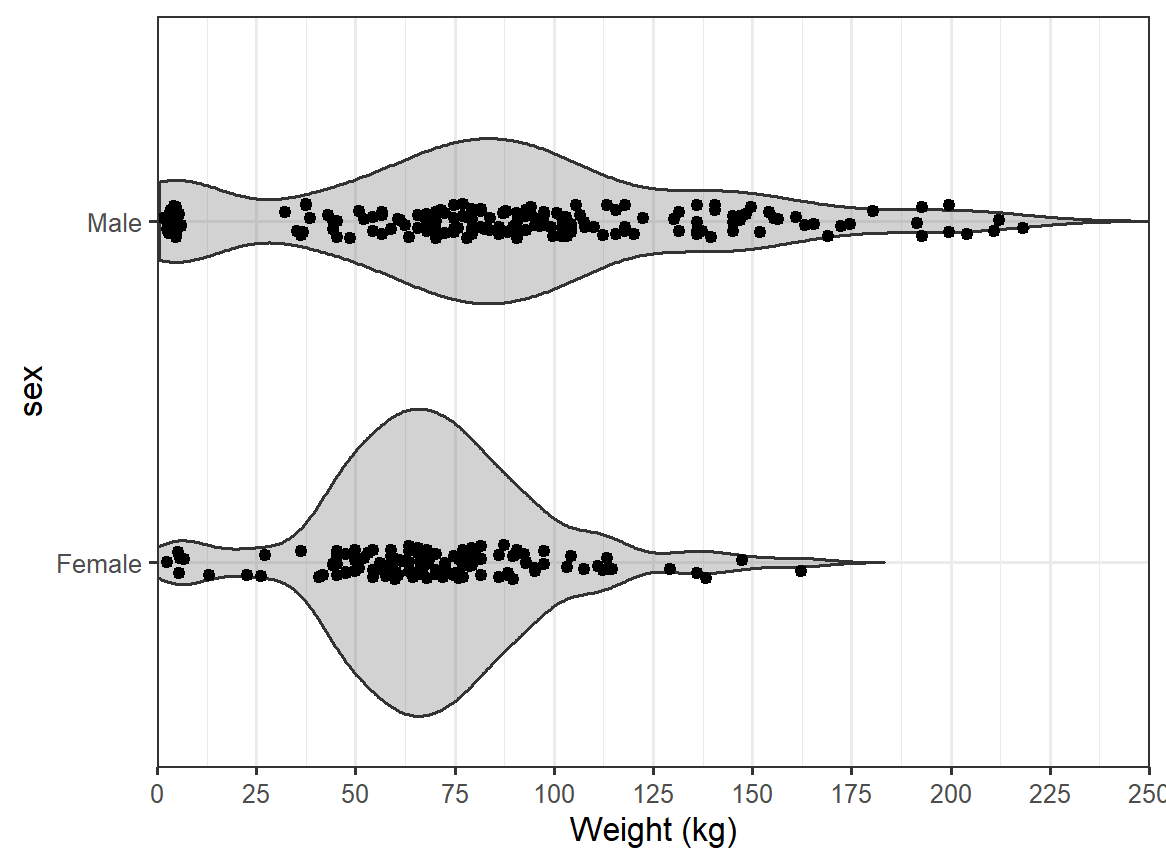
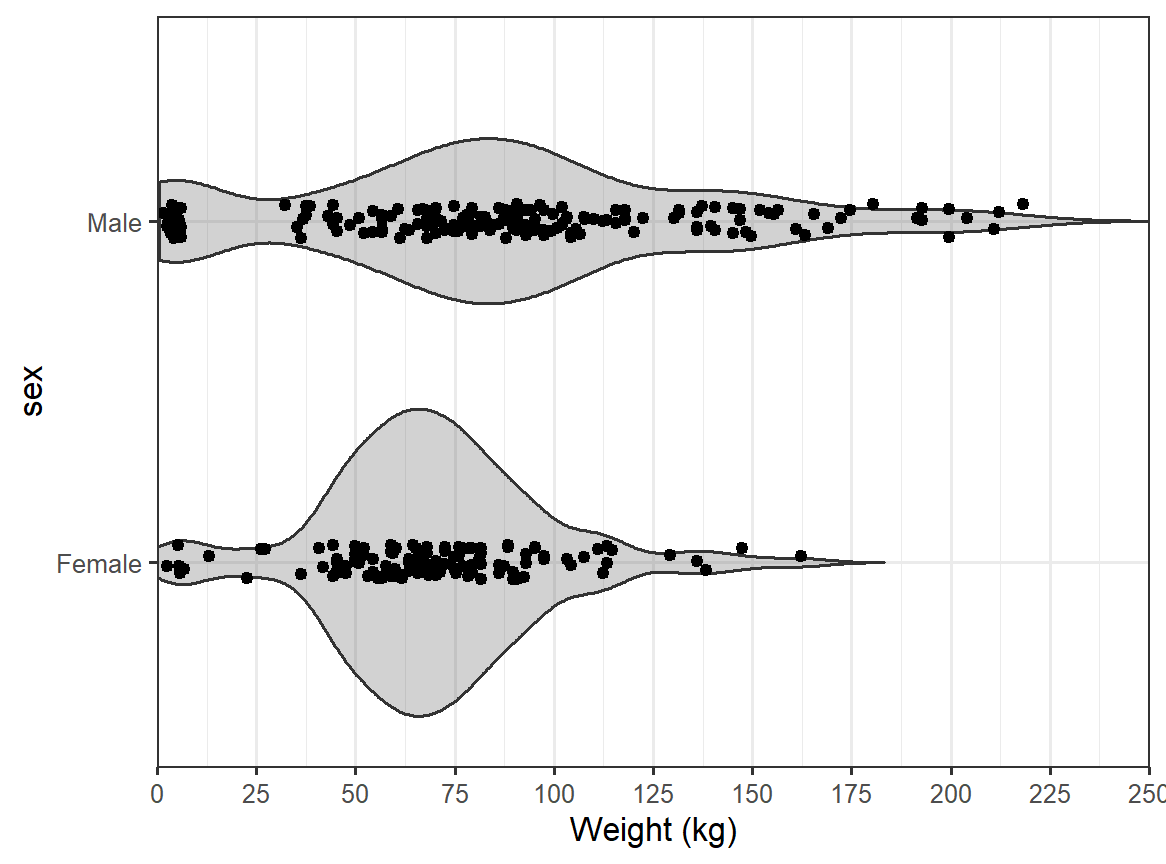
Updated Black Bears Lecture

diff --git a/modules/Univariate_Density/Lecture_BlackBears.html b/modules/Univariate_Density/Lecture_BlackBears.html
@@ -75,7 +75,7 @@ head(flbb)
 ```
 
 - Variables are:
-  - **DATE**: Dateo of capture (*won't be used here*).
+  - **DATE**: Date of capture (*won't be used here*).
   - **sex**: Sex of bear (`Female` or `Male`).
   - **age**: Estimated age of the bear (years).
   - **weight**: Body weight of the bear (kg).
@@ -112,7 +112,7 @@ head(flbb)
 ]
 
 .pull-right[
-
+&lt;img src="Lecture_BlackBears_files/figure-html/unnamed-chunk-3-1.png" width="100%" /&gt;
 ]
 
 ---
